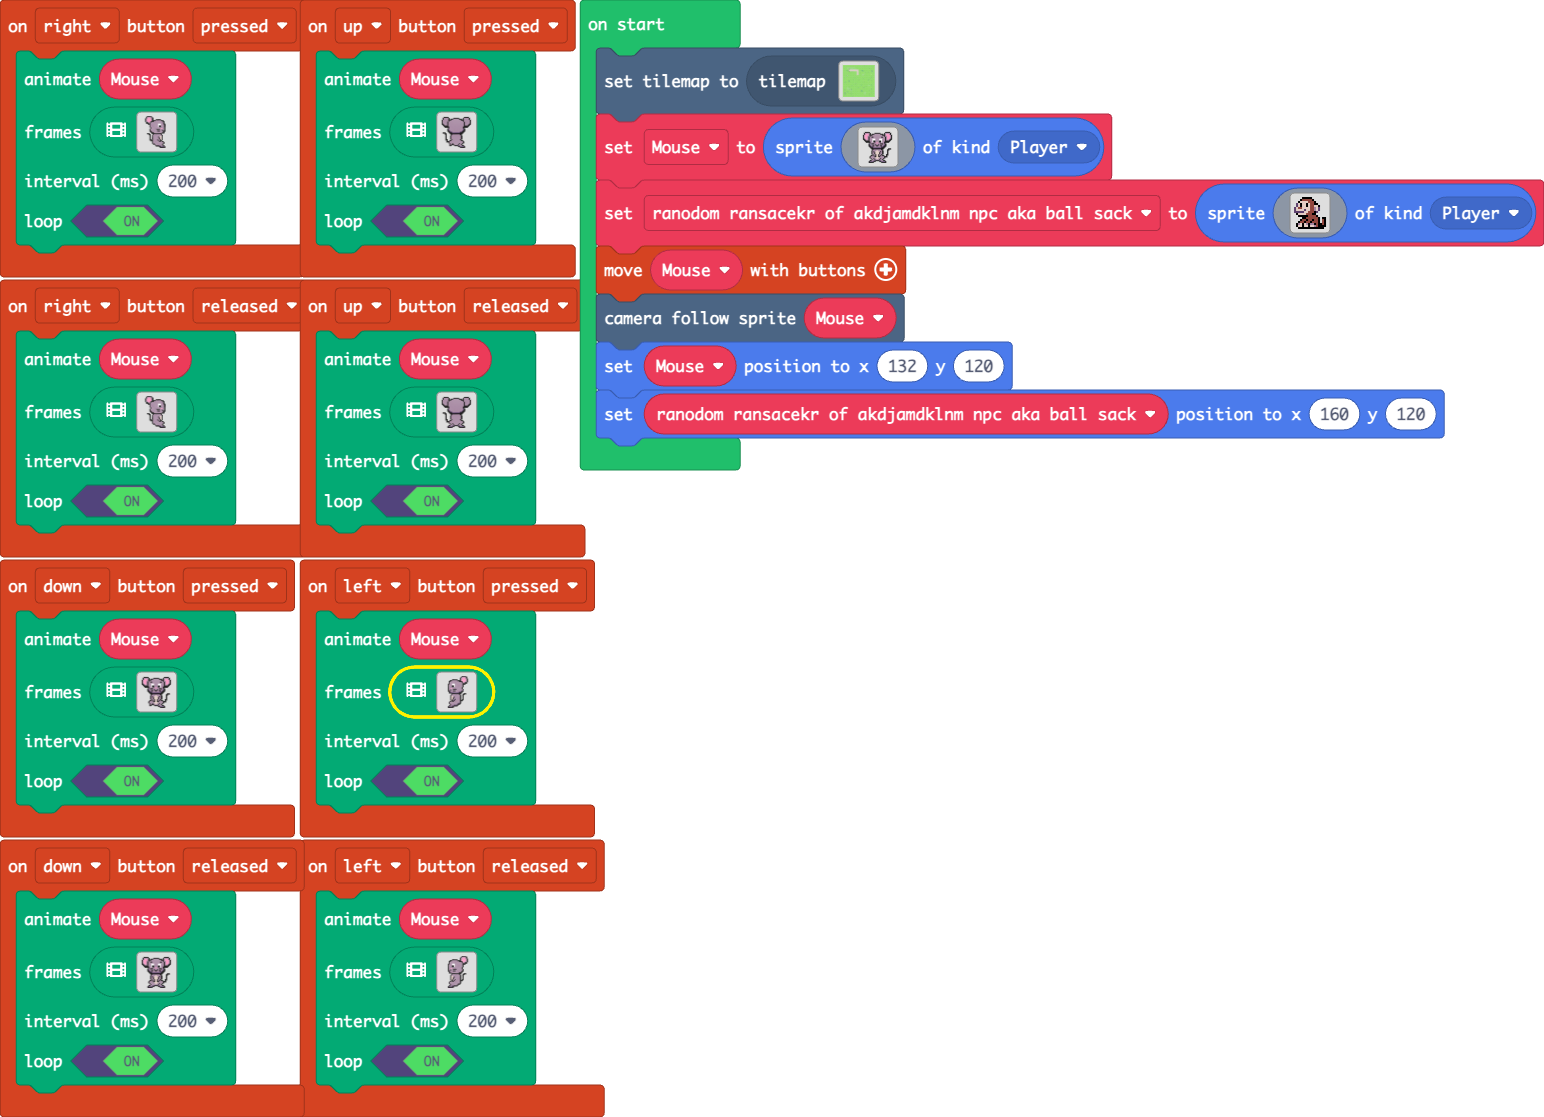
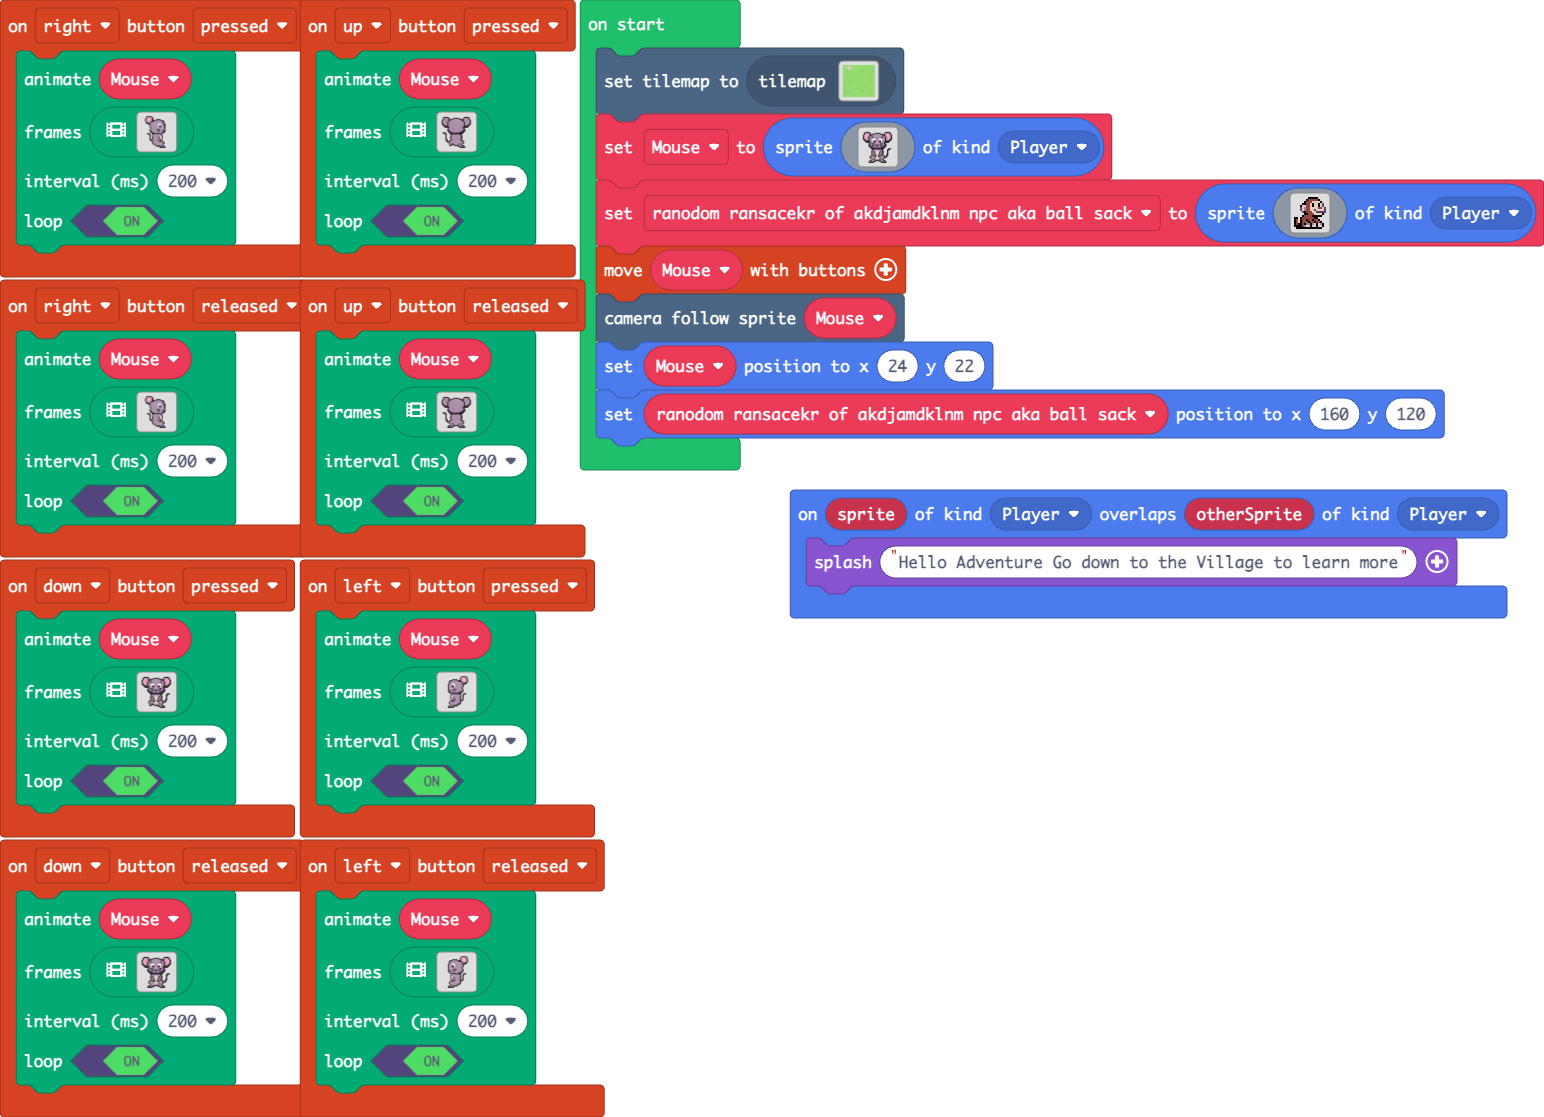
Update main.blocks, main.ts, tilemap.g.jres, tilemap.g.ts

diff --git a/tilemap.g.ts b/tilemap.g.ts
@@ -37,7 +37,7 @@ namespace myTiles {
 . . . . . . . . . . . . . . . . 
 `, [myTiles.transparency16], TileScale.Sixteen);
             case "level2":
[2 lines of base64/hex data omitted]
 ..................................................
 ..................................................
 ..................................................
@@ -88,7 +88,7 @@ namespace myTiles {
 ..................................................
 ..................................................
 ..................................................
-`, [myTiles.transparency16,sprites.castle.tileGrass1,sprites.castle.tileGrass3,sprites.castle.tileGrass2,myTiles.tile4,myTiles.tile5,myTiles.tile6,sprites.castle.tilePath2,sprites.castle.tilePath4,sprites.castle.tilePath1,sprites.castle.tilePath7,sprites.castle.tilePath5,sprites.castle.tilePath8,myTiles.tile1,sprites.castle.tilePath3,sprites.castle.tilePath6,sprites.castle.tilePath9], TileScale.Sixteen);
+`, [myTiles.transparency16,sprites.castle.tileGrass1,sprites.castle.tileGrass3,sprites.castle.tileGrass2,myTiles.tile4,myTiles.tile5,myTiles.tile6,sprites.castle.tilePath2,sprites.castle.tilePath4,sprites.castle.tilePath1,sprites.castle.tilePath7,sprites.castle.tilePath5,sprites.castle.tilePath8,sprites.castle.tilePath3,sprites.castle.tilePath6,myTiles.tile1], TileScale.Sixteen);
         }
         return null;
     })

diff --git a/main.ts b/main.ts
@@ -782,6 +782,9 @@ controller.down.onEvent(ControllerButtonEvent.Pressed, function () {
     true
     )
 })
+sprites.onOverlap(SpriteKind.Player, SpriteKind.Player, function (sprite, otherSprite) {
+    game.splash("Hello Adventure Go down to the Village to learn more")
+})
 let Mouse: Sprite = null
 tiles.setCurrentTilemap(tilemap`level2`)
 Mouse = sprites.create(img`
@@ -820,24 +823,24 @@ Mouse = sprites.create(img`
     .......fffff........fffff.......
     `, SpriteKind.Player)
 let ranodom_ransacekr_of_akdjamdklnm_npc_aka_ball_sack = sprites.create(img`
-    . . . . f f f f f . . . . . . . 
-    . . . f e e e e e f . . . . . . 
-    . . f d d d d e e e f . . . . . 
-    . c d f d d f d e e f f . . . . 
-    . c d f d d f d e e d d f . . . 
-    c d e e d d d d e e b d c . . . 
-    c d d d d c d d e e b d c . . . 
-    c c c c c d d e e e f c . . . . 
-    . f d d d d e e e f f . . . . . 
-    . . f f f f f e e e e f . . . . 
-    . . . . f f e e e e e e f . f f 
-    . . . f e e f e e f e e f . e f 
-    . . f e e f e e f e e e f . e f 
-    . f b d f d b f b b f e f f e f 
-    . f d d f d d f d d b e f f f f 
-    . . f f f f f f f f f f f f f . 
+    . . . . . . . f f f f f . . . . 
+    . . . . . . f e e e e e f . . . 
+    . . . . . f e e e d d d d f . . 
+    . . . . f f e e d f d d f d c . 
+    . . . f d d e e d f d d f d c . 
+    . . . c d b e e d d d d e e d c 
+    . . . c d b e e d d c d d d d c 
+    . . . . c f e e e d d c c c c c 
+    . . . . . f f e e e d d d d f . 
+    . . . . f e e e e f f f f f . . 
+    f f . f e e e e e e f f . . . . 
+    f e . f e e f e e f e e f . . . 
+    f e . f e e e f e e f e e f . . 
+    f e f f e f b b f b d f d b f . 
+    f f f f e b d d f d d f d d f . 
+    . f f f f f f f f f f f f f . . 
     `, SpriteKind.Player)
 controller.moveSprite(Mouse)
 scene.cameraFollowSprite(Mouse)
-Mouse.setPosition(132, 120)
+Mouse.setPosition(24, 22)
 ranodom_ransacekr_of_akdjamdklnm_npc_aka_ball_sack.setPosition(160, 120)
